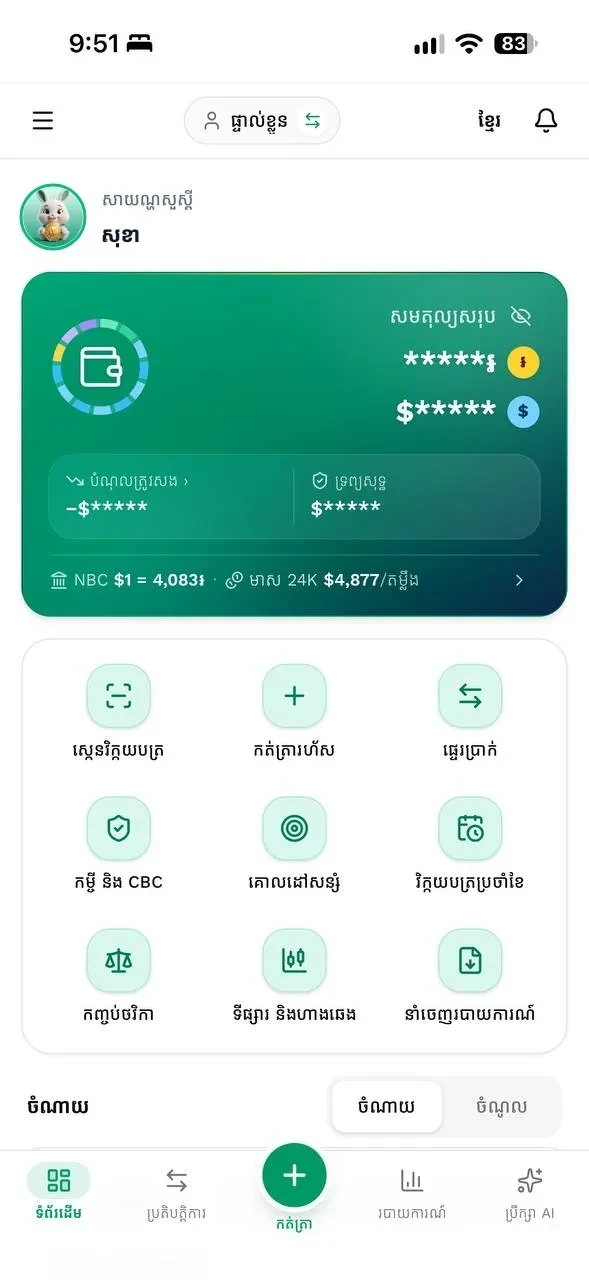
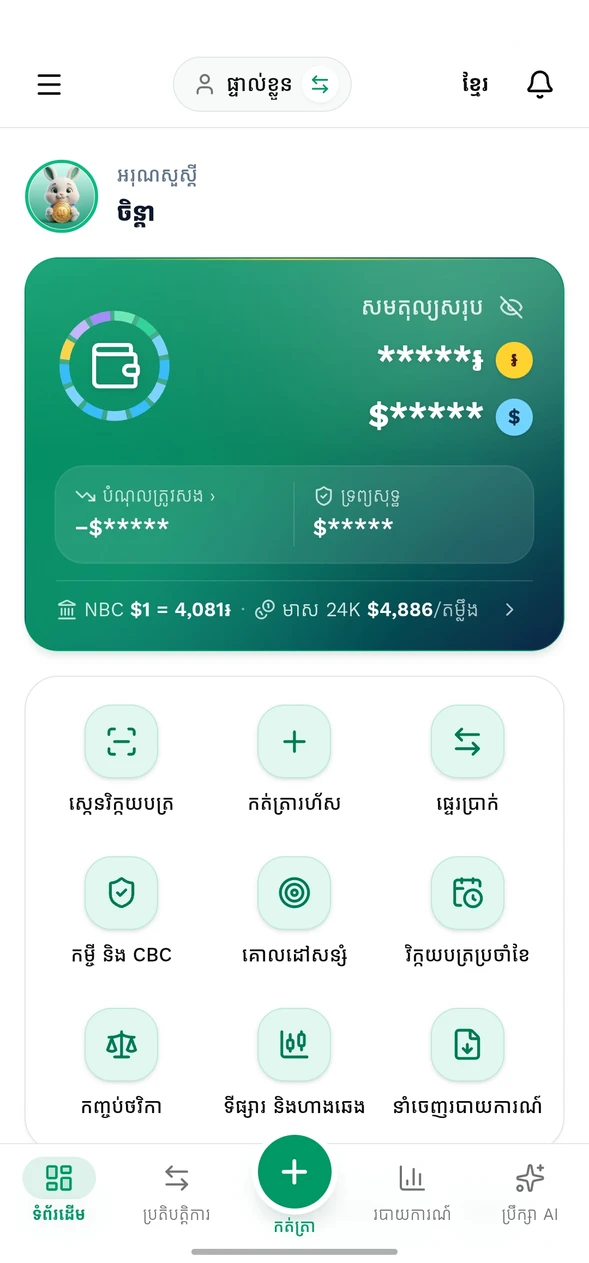
feat(website): the phone on luychlat.com is an Android now — the founder's Android screenshots (29/10/2026), the punch-hole camera instead of the iPhone island; the shop «ហាងឆ្លាត» with the app's initials tile, the personal home «ចិន្តា» with the rabbit (never the founder's photo); the admin-only Is
Khmer: គេហទំព័របង្ហាញទូរសព្ទ Android ជាមួយរូបអេបថ្មី «ហាងឆ្លាត» និង «ចិន្តា»

diff --git a/Website/site.css b/Website/site.css
@@ -384,15 +384,17 @@ details a { color: var(--brand); }
 .sbar .sig { display: inline-flex; align-items: center; gap: 5px; }
 .sbar .sig b { display: inline-block; width: 20px; height: 10px; border-radius: 3px; border: 1.5px solid #111827; position: relative; }
 .sbar .sig b::after { content: ""; position: absolute; inset: 1.5px; right: 5px; background: #111827; border-radius: 1px; }
-.viewport { position: relative; aspect-ratio: 589 / 1280; flex: none; }
-.island { position: absolute; z-index: 3; left: 50%; top: 2.2%; width: 30%; height: 3.6%; margin-left: -15%; border-radius: 999px; background: #050806; }
+.viewport { position: relative; aspect-ratio: 589 / 1263; flex: none; }
+/* Android (founder, 29/10/2026 — most of our members, and the APK): the punch-hole camera in the status bar. */
+.punch { position: absolute; z-index: 3; left: 50%; top: 1.15%; width: 4%; aspect-ratio: 1; margin-left: -2%; border-radius: 50%; background: #050806; box-shadow: inset 0 0 0 2px #1c2522; }
 .homebar { height: 22px; flex: none; background: #fff; position: relative; }
 .homebar::after { content: ""; position: absolute; left: 50%; top: 9px; width: 34%; height: 4px; margin-left: -17%; border-radius: 4px; background: #111827; opacity: .8; }
 .shot { position: absolute; inset: 0; width: 100%; height: 100%; object-fit: cover; object-position: top; opacity: 0; transition: opacity .8s ease; }
 .shot.on { opacity: 1; }
 /* Today's date, where the app writes it (the screenshots' own was erased): right-aligned under the header. */
 .viewport { container-type: inline-size; }
-.ph-date { position: absolute; z-index: 1; top: 14.25%; right: 3.6%; font: 500 3.35cqw/1.2 "Kantumruy Pro", "Plus Jakarta Sans", sans-serif; color: #374151; white-space: nowrap; }
+.ph-date { position: absolute; z-index: 1; top: 13.35%; right: 4.1%; font: 500 3.2cqw/1.2 "Kantumruy Pro", "Plus Jakarta Sans", sans-serif; color: #374151; white-space: nowrap; }
+.screen.shots[data-on="me"] .ph-date { top: 12.85%; }
 .screen.shots .ph-toast { position: absolute; left: 10px; right: 10px; bottom: 14%; z-index: 2; font-size: 12px; }
 .shot-tabs { display: flex; gap: 8px; }
 .shot-tabs span { padding: 5px 12px; border-radius: 999px; font-size: .85rem; color: var(--muted); background: var(--surface); border: 1px solid var(--line); transition: all .3s ease; }

diff --git a/Website/index.html b/Website/index.html
@@ -67,14 +67,14 @@
           <a class="more-link" href="#business" data-i="hero.more">មើលថាវាជួយហាងអ្នកយ៉ាងដូចម្ដេច ↓</a>
         </div>
 
-        <!-- The real app (the founder's iPhone screenshots, 27/10/2026 — the photo and the names replaced by a sample) -->
+        <!-- The real app (the founder's Android screenshots, 29/10/2026 — the photo a rabbit, the shop «ហាងឆ្លាត») -->
         <figure class="phone-wrap">
           <div class="phone">
             <div class="screen shots">
-              <i class="island" aria-hidden="true"></i>
+              <i class="punch" aria-hidden="true"></i>
               <div class="viewport">
-              <img class="shot on" src="screen-business.webp" width="589" height="1280" alt="អេប លុយឆ្លាត — ទំព័រដើមអាជីវកម្ម" data-i-alt="shot.biz" data-label="biz">
-              <img class="shot" src="screen-personal.webp" width="589" height="1280" alt="អេប លុយឆ្លាត — ទំព័រដើមផ្ទាល់ខ្លួន" data-i-alt="shot.me" data-label="me" loading="lazy">
+              <img class="shot on" src="screen-business.webp" width="589" height="1263" alt="អេប លុយឆ្លាត — ទំព័រដើមអាជីវកម្ម" data-i-alt="shot.biz" data-label="biz">
+              <img class="shot" src="screen-personal.webp" width="589" height="1263" alt="អេប លុយឆ្លាត — ទំព័រដើមផ្ទាល់ខ្លួន" data-i-alt="shot.me" data-label="me" loading="lazy">
               <!-- Today's date in the viewer's own calendar, where the app shows it (founder, 28/10/2026 — site.js) -->
               <span class="ph-date" aria-hidden="true"></span>
               </div>
@@ -424,6 +424,7 @@
 
   <!-- Cloudflare Web Analytics (cookieless) — the website only, never the app -->
   <script defer="" src="https://static.cloudflareinsights.com/beacon.min.js" data-cf-beacon="{&quot;token&quot;: &quot;d414eab13d024a1aade4e9fc8f5ddf1f&quot;}"></script>
+
 
 
 

diff --git a/Website/en/index.html b/Website/en/index.html
@@ -67,14 +67,14 @@
           <a class="more-link" href="#business" data-i="hero.more">See how it helps your shop ↓</a>
         </div>
 
-        <!-- The real app (the founder's iPhone screenshots, 27/10/2026 — the photo and the names replaced by a sample) -->
+        <!-- The real app (the founder's Android screenshots, 29/10/2026 — the photo a rabbit, the shop «ហាងឆ្លាត») -->
         <figure class="phone-wrap">
           <div class="phone">
             <div class="screen shots">
-              <i class="island" aria-hidden="true"></i>
+              <i class="punch" aria-hidden="true"></i>
               <div class="viewport">
-              <img class="shot on" src="../screen-business.webp" width="589" height="1280" alt="App Luy Chlat — business home screen" data-i-alt="shot.biz" data-label="biz">
-              <img class="shot" src="../screen-personal.webp" width="589" height="1280" alt="App Luy Chlat — personal home screen" data-i-alt="shot.me" data-label="me" loading="lazy">
+              <img class="shot on" src="../screen-business.webp" width="589" height="1263" alt="App Luy Chlat — business home screen" data-i-alt="shot.biz" data-label="biz">
+              <img class="shot" src="../screen-personal.webp" width="589" height="1263" alt="App Luy Chlat — personal home screen" data-i-alt="shot.me" data-label="me" loading="lazy">
               <!-- Today's date in the viewer's own calendar, where the app shows it (founder, 28/10/2026 — site.js) -->
               <span class="ph-date" aria-hidden="true"></span>
               </div>
@@ -424,6 +424,7 @@
 
   <!-- Cloudflare Web Analytics (cookieless) — the website only, never the app -->
   <script defer="" src="https://static.cloudflareinsights.com/beacon.min.js" data-cf-beacon="{&quot;token&quot;: &quot;d414eab13d024a1aade4e9fc8f5ddf1f&quot;}"></script>
+
 
 
 

diff --git a/Website/zh/index.html b/Website/zh/index.html
@@ -67,14 +67,14 @@
           <a class="more-link" href="#business" data-i="hero.more">看看它怎么帮您的店 ↓</a>
         </div>
 
-        <!-- The real app (the founder's iPhone screenshots, 27/10/2026 — the photo and the names replaced by a sample) -->
+        <!-- The real app (the founder's Android screenshots, 29/10/2026 — the photo a rabbit, the shop «ហាងឆ្លាត») -->
         <figure class="phone-wrap">
           <div class="phone">
             <div class="screen shots">
-              <i class="island" aria-hidden="true"></i>
+              <i class="punch" aria-hidden="true"></i>
               <div class="viewport">
-              <img class="shot on" src="../screen-business.webp" width="589" height="1280" alt="App Luy Chlat 商家首页" data-i-alt="shot.biz" data-label="biz">
-              <img class="shot" src="../screen-personal.webp" width="589" height="1280" alt="App Luy Chlat 个人首页" data-i-alt="shot.me" data-label="me" loading="lazy">
+              <img class="shot on" src="../screen-business.webp" width="589" height="1263" alt="App Luy Chlat 商家首页" data-i-alt="shot.biz" data-label="biz">
+              <img class="shot" src="../screen-personal.webp" width="589" height="1263" alt="App Luy Chlat 个人首页" data-i-alt="shot.me" data-label="me" loading="lazy">
               <!-- Today's date in the viewer's own calendar, where the app shows it (founder, 28/10/2026 — site.js) -->
               <span class="ph-date" aria-hidden="true"></span>
               </div>
@@ -424,6 +424,7 @@
 
   <!-- Cloudflare Web Analytics (cookieless) — the website only, never the app -->
   <script defer="" src="https://static.cloudflareinsights.com/beacon.min.js" data-cf-beacon="{&quot;token&quot;: &quot;d414eab13d024a1aade4e9fc8f5ddf1f&quot;}"></script>
+
 
 
 
